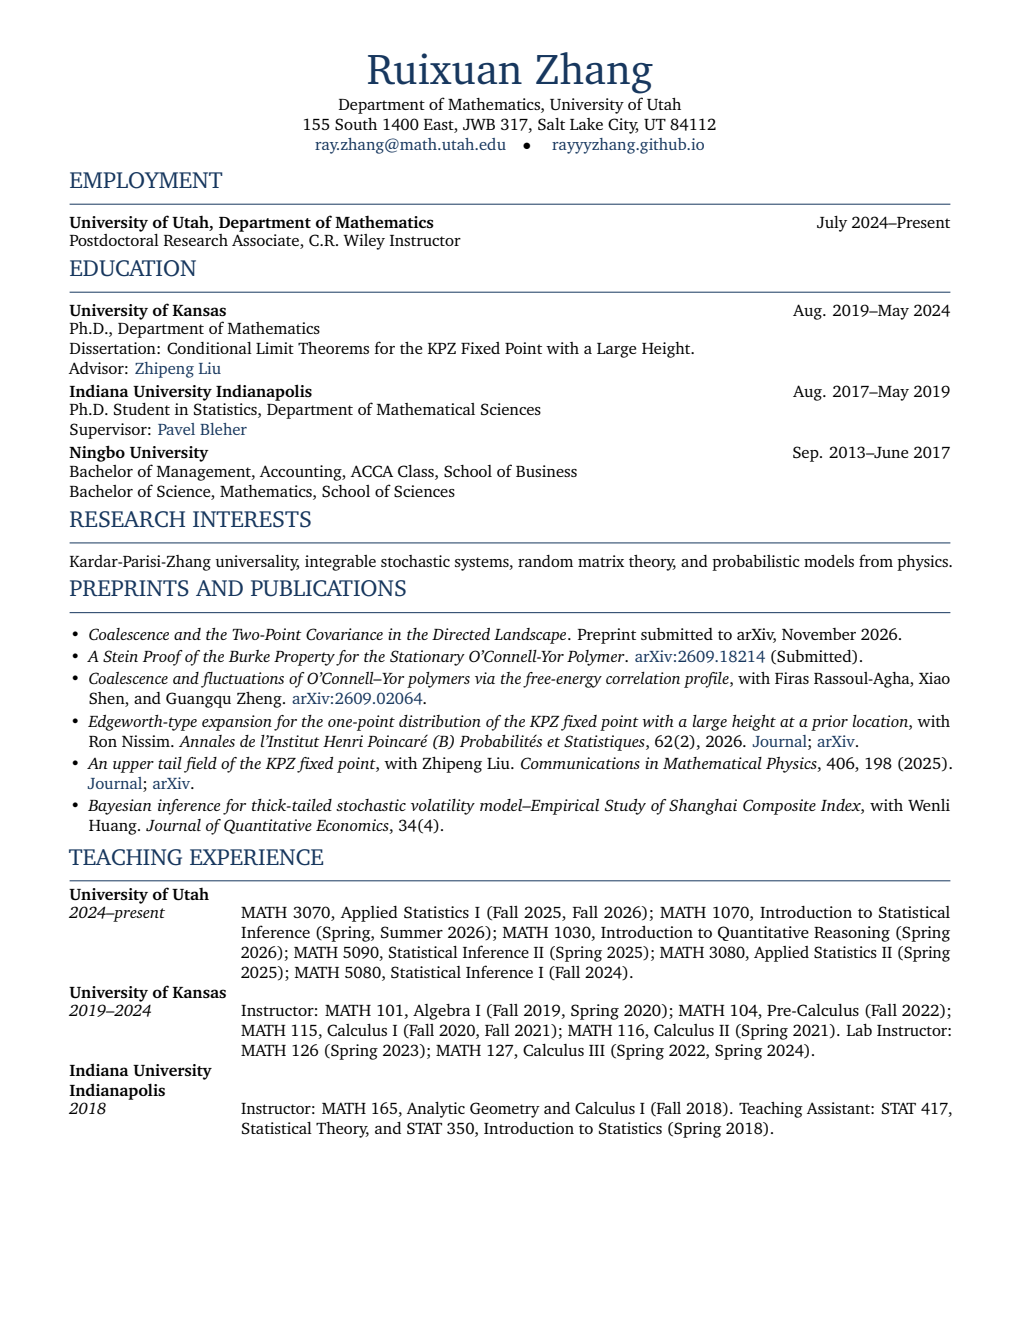
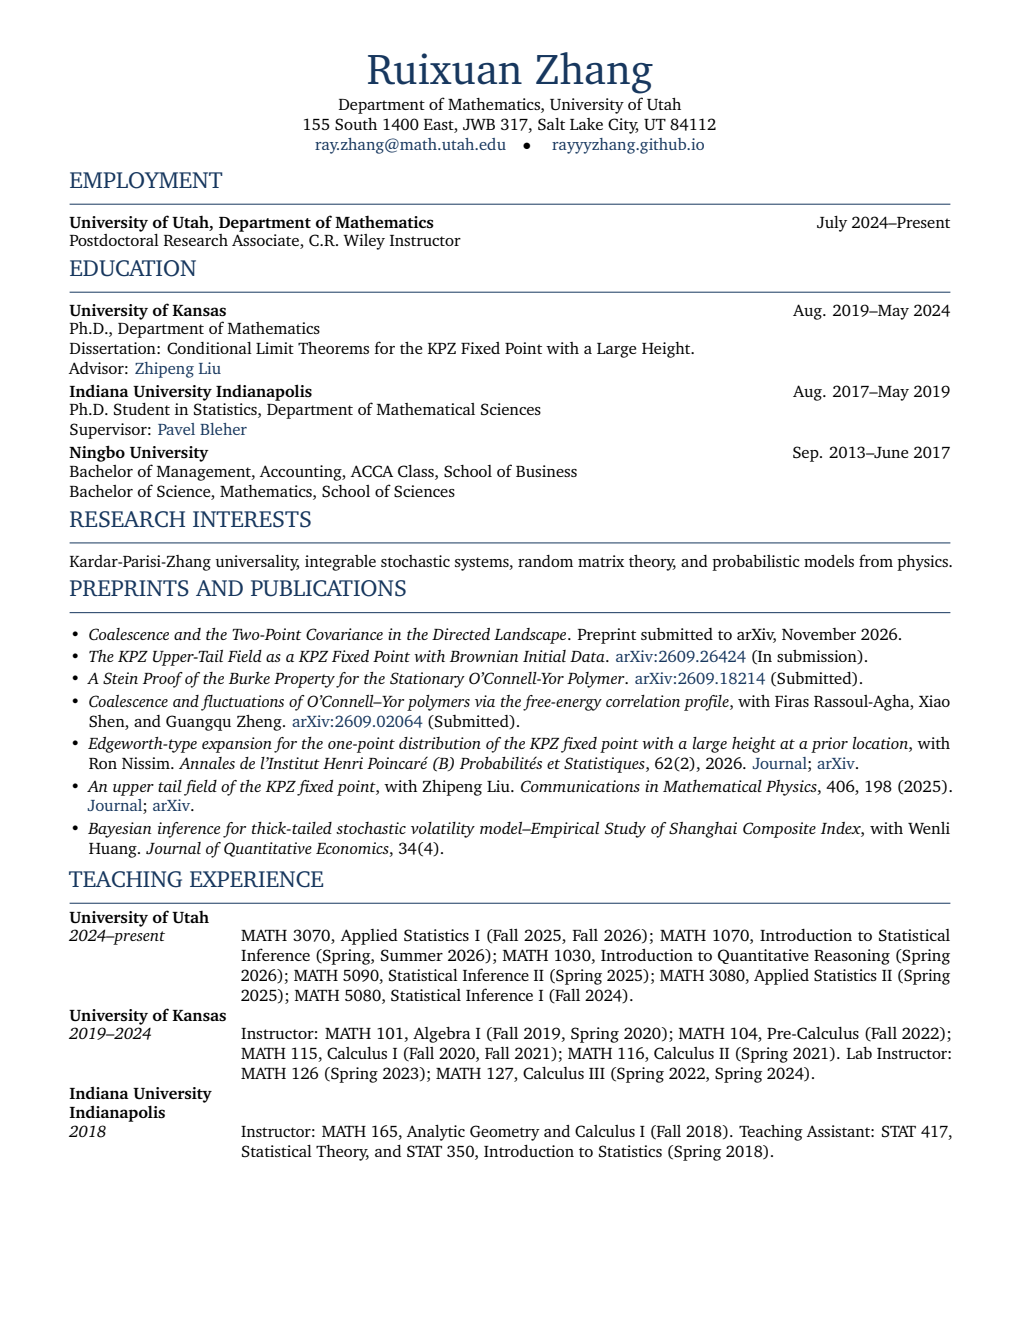
Complete CV publication list with KPZ upper-tail preprint

Changed region(s): [[0.0608, 0.497, 0.9422, 0.9008]]

diff --git a/index.html b/index.html
@@ -15,7 +15,7 @@
         <p class="lead">I am a Postdoctoral Research Associate under the C.R. Wiley Instructorship in the <a href="https://www.math.utah.edu/">Department of Mathematics, University of Utah</a>. I obtained my Ph.D. in Mathematics from the <a href="https://mathematics.ku.edu/">University of Kansas</a> in 2024 under the supervision of <a href="https://zhipengliumath.github.io/">Zhipeng Liu</a>.</p>
         <p>I am organizing the <a href="https://www.math.utah.edu/Stochastics/Seminar/">Stochastics Seminar</a> at the University of Utah.</p>
         <p>Outside of mathematics, I enjoy cooking, hiking, and skiing.</p>
-        <p><a class="button" href="cv.pdf?v=20261122-stein">View CV</a></p>
+        <p><a class="button" href="cv.pdf?v=20261122-publications">View CV</a></p>
         <section class="callout"><h2>Contact information</h2><p>You can reach me at ray [dot] zhang at math.utah.edu.<br>Address: 155 S 1400 E, JWB 317, Salt Lake City, UT 84112.</p></section>
       </div>
       <figure class="profile-figure">
